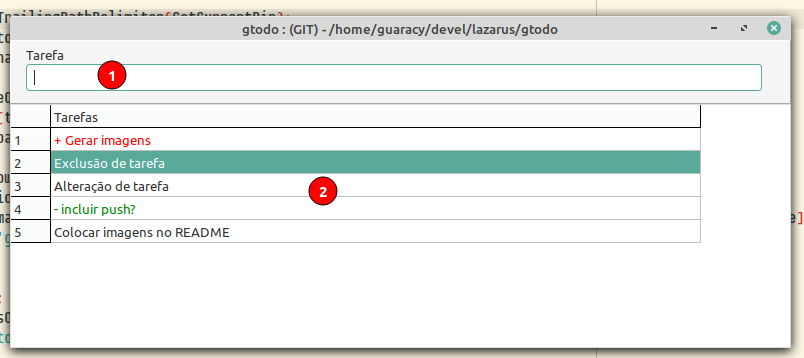
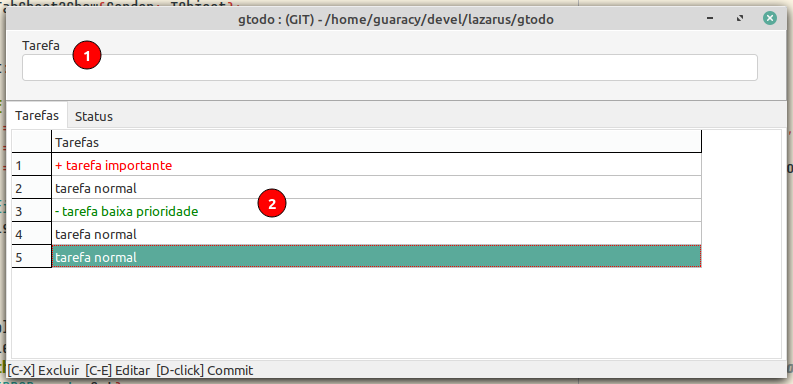
alterações diversas

Changed region(s): [[0.0, 0.0, 1.0, 1.0]]

diff --git a/README.md b/README.md
@@ -32,8 +32,10 @@ Entre na pasta que você deseja controla e execute o gtodo.
 1. Menu -> Ferramentas -> gToDo (ou o nome que você colocou)
    ![](images/mnuexecutargtodo.png)
 
-2. gtodo
-   ![](images/gtodo.png)
+#### Tarefas
+
+![](images/gtodo.png)
+
 - No título da janela aparece (LOCAL) ou (GIT), conforme a pasta que você estiver trabalhando e o caminho completo.
 
 - **Incluir tarefa**: Em **1** você digita a tarefa que deverá ser executada e pressiona enter para incluir na grade. Se a tarefa iniciar com mais, será mostrada em vermelho, se tiver um hífem será mostrada em verde ou preta caso contrário. Apenas para uma noção de prioridade alta, média e baixa. As tarefas são incluídas no final da lista mas você podera arrastar uma linha para uma outra posição. 
@@ -43,3 +45,17 @@ Entre na pasta que você deseja controla e execute o gtodo.
 - **Exclusão de tarefa**: Pressione Ctrl+X para excluir a tarefa selecionada na grade.
 
 - **Alteração de tarefa**: Selecione a tarefa na grade usando o mouse ou as setas para cima e baixo e pressione Ctrl+E. Altere a tarefa e pressione enter. Pressione Esc para cancelar o modo de edição.
+
+#### Status
+
+![](images/gtodo-s.png)
+
+- Mostra um resumo do que foi alterado desde o último commit. Pode ser vista pressionando o botão S
+
+![](images/gtodo-d.png)
+
+- Mostra as alterações efetuadas desde o último commit. É possível expandir os ítens para ver o que foi alterado em cada arquivo. Pode ser vista pressionando o botão D
+
+![](images/gtodo-l.png)
+
+- Mostra o log do git com cada commit efetuado. Quando visível (botão L), o botão R é habilitado e permite que se faça um reset retornando ao estado do commit especificado. Todos os commits posteriores serão excluídos. Para recuperar, você deve ler o manual do Git e deve efetuar os comandos em um terminal. A dica é `git reflog` e, por exemplo, `git reset HEAD@{3}`.
